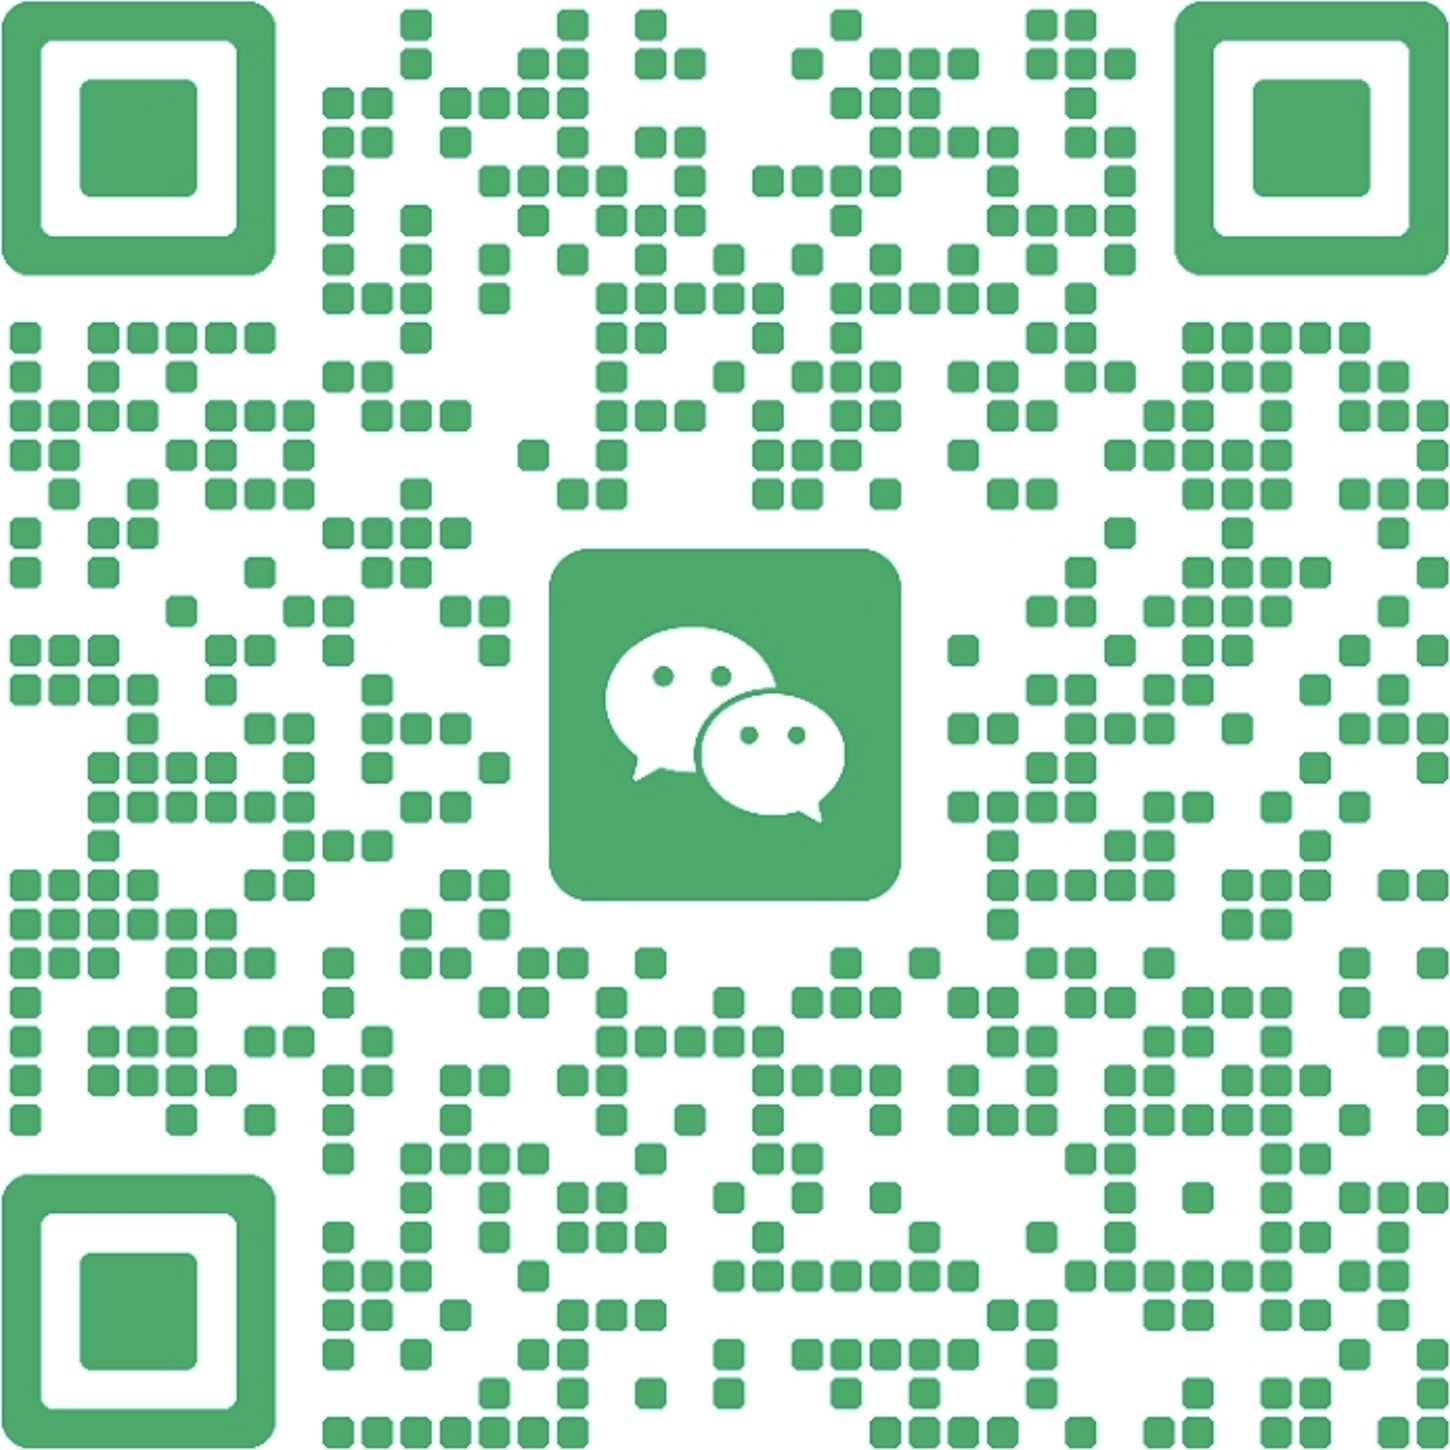
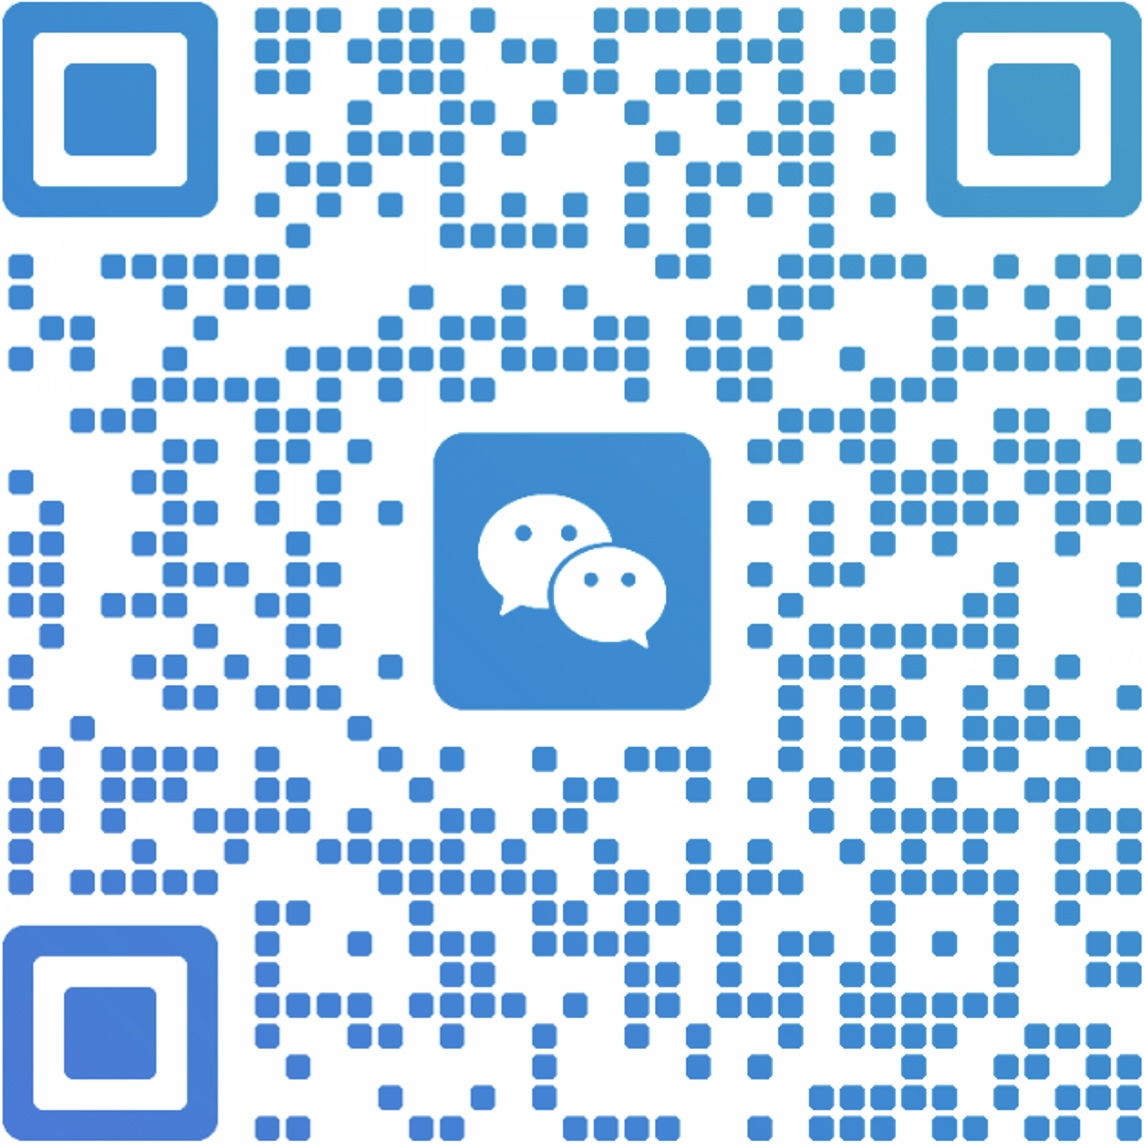
chore: update Jul-Dec 2026 officer roster
Refresh current officer details across generated agendas, award
certificates, meeting planning defaults, and assistant knowledge.

- Replace the workbook roster and add the current IPP.
- Set Alice Song as the default president for new agendas.
- Add Simmy Li and Selina Zhang to name-resolution hints.
- Refresh the VPM QR assets for web and Excel output.
- Keep local Codex workspace configuration out of Git.

diff --git a/frontend/src/utils/workbook.ts b/frontend/src/utils/workbook.ts
@@ -1104,7 +1104,7 @@ const createTeam = (
             font: { color: { argb: 'FFFFFFFF' }, bold: true }, // White text
           },
         },
-        { text: 'Amy Fang', style: { alignment: { horizontal: 'center' } } },
+        { text: 'Alice Song', style: { alignment: { horizontal: 'center' } } },
         {
           text: 'DL-Dynamic leadership\nMS-Motivational Strategies\nPl-Persuasive Influence\nPM-Presentation Mastery\nVC-Visionary Communication\nEH-Engaging Humor\n\nDL-动态领导力\nMS-激励策略\nPl-有说服力的影响\nPM-精通演讲\nVC-愿景沟通\nEH-善用幽默',
           style: {
@@ -1162,7 +1162,7 @@ const createTeam = (
             },
           },
         },
-        { text: 'Helen Chen', style: { alignment: { horizontal: 'center' } } },
+        { text: 'Liz Huang', style: { alignment: { horizontal: 'center' } } },
         '',
         '',
         '',
@@ -1184,7 +1184,7 @@ const createTeam = (
           },
         },
         {
-          text: 'Joyce Feng',
+          text: 'Simmy Li',
           style: { alignment: { horizontal: 'center' } },
         },
         '',
@@ -1208,7 +1208,7 @@ const createTeam = (
           },
         },
         {
-          text: 'Jenny Li',
+          text: 'Jessica Peng',
           style: { alignment: { horizontal: 'center' } },
         },
         '',
@@ -1232,7 +1232,7 @@ const createTeam = (
           },
         },
         {
-          text: 'Rui Zheng',
+          text: 'Selina Zhang',
           style: { alignment: { horizontal: 'center' } },
         },
         '',
@@ -1255,7 +1255,7 @@ const createTeam = (
             },
           },
         },
-        { text: 'Frank Zeng', style: { alignment: { horizontal: 'center' } } },
+        { text: 'Victory Liu', style: { alignment: { horizontal: 'center' } } },
         '',
         '',
         '',
@@ -1277,7 +1277,7 @@ const createTeam = (
           },
         },
         {
-          text: 'Shelly Qu',
+          text: 'Catherine Yang',
           style: { alignment: { horizontal: 'center' } },
         },
         '',
@@ -1301,7 +1301,7 @@ const createTeam = (
           },
         },
         {
-          text: 'Rui Zheng',
+          text: 'Amy Fang',
           style: { alignment: { horizontal: 'center' } },
         },
         '',

diff --git a/frontend/src/app/(auth)/awards/AwardPreview.tsx b/frontend/src/app/(auth)/awards/AwardPreview.tsx
@@ -108,7 +108,7 @@ export const AwardPreview = ({ award }: { award: AwardResult }) => {
 
           // add president signature
           ctx.font = 'lighter 200px serif';
-          ctx.fillText('Amy Fang', 4925, 4050 + yOffset);
+          ctx.fillText('Alice Song', 4925, 4050 + yOffset);
 
           // Add member name
           ctx.font = '480px Brush Script MT';

diff --git a/backend/app/agents/meeting/tools.py b/backend/app/agents/meeting/tools.py
@@ -721,7 +721,7 @@ async def apply_create_from_text(ctx, raw_text: str) -> dict:
 
 # Soarhigh Regular meeting standard structure — 22 segments, 2 prepared
 # speeches, 19:15 warmup → 21:15 closing. President defaults follow the
-# planner prompt convention (Amy Fang for Opening Remarks / Awards /
+# planner prompt convention (Alice Song for Opening Remarks / Awards /
 # Closing Remarks); user re-assigns via subsequent chat edits.
 _REGULAR_2PS_SEGMENTS: tuple[tuple[str, str, int, str], ...] = (
     # (type, start_time, duration_min, role_taker)
@@ -751,7 +751,7 @@ _REGULAR_2PS_SEGMENTS: tuple[tuple[str, str, int, str], ...] = (
     ("Voting Section (TOM)", "21:02", 2, ""),
     ("Moment of Truth", "21:04", 7, ""),
     ("Awards (President)", "21:11", 3, ""),
-    ("Closing Remarks (President)", "21:14", 1, "Amy Fang"),
+    ("Closing Remarks (President)", "21:14", 1, "Alice Song"),
 )
 
 
@@ -771,7 +771,7 @@ def _build_template_regular_2ps(members_directory: list[dict]) -> Agenda:
     decide rather than picking one for them).
 
     `members_directory` is the live members list eager-fetched at turn
-    boundary by the route. Static defaults like "Amy Fang" (the current
+    boundary by the route. Static defaults like "Alice Song" (the current
     president) are resolved through `_resolve_role_taker` so they carry a
     real DB `member_id` — without this, the chat addendum would render
     those default-presider rows as `(guest)` until the frontend re-resolved

diff --git a/backend/app/utils/prompts.py b/backend/app/utils/prompts.py
@@ -518,7 +518,7 @@ be expressed ONLY by pushing the NEXT real segment's start_time later. NEVER out
 "buffer" / "Buffer" / "间隔" / "gap" — buffers are not segments, they are time gaps between segments.
 3. Above segments are ordered by time, you can add or remove some segments according to how many people registered but \
 DO NOT change their orders.
-4. Role taker for Opening Remarks, Awards, and Closing Remarks defaults to the current club president Amy Fang. If \
+4. Role taker for Opening Remarks, Awards, and Closing Remarks defaults to the current club president Alice Song. If \
 the registration text explicitly names someone for the role, use that name instead of the default. Note: "Opening \
 Remarks" is sometimes labelled "Club Intro" in the registration text — treat them as the same segment.
 5. Role taker for Voting Section is always the TOM (Toastmaster of Meeting Introduction).

diff --git a/backend/app/utils/tests/test_prompts.py b/backend/app/utils/tests/test_prompts.py
@@ -6,10 +6,13 @@ from app.utils.prompts import (
 )
 
 
-def test_developer_prompt_lists_all_19_club_members():
+def test_developer_prompt_lists_club_members():
     prompt = plan_meeting_from_text_developer_prompt
     assert "Victory Liu" in prompt
     assert "Albert Ding" in prompt
+    assert "Simmy Li" in prompt
+    assert "Selina Zhang" in prompt
+    assert "Catherine Yang" in prompt
 
 
 def test_user_prompt_forbids_buffer_pseudo_segments():
@@ -47,9 +50,10 @@ def test_developer_prompt_describes_warmup_segment():
     assert '"type": "Guests Registration"' not in prompt
 
 
-def test_user_prompt_default_president_is_amy_fang():
+def test_user_prompt_default_president_is_alice_song():
     prompt = plan_meeting_from_text_user_prompt
-    assert "Amy Fang" in prompt
+    assert "Alice Song" in prompt
+    assert "Amy Fang" not in prompt
     assert "Libra Lee" not in prompt
 
 

diff --git a/backend/app/agents/meeting/tests/test_tools.py b/backend/app/agents/meeting/tests/test_tools.py
@@ -612,10 +612,10 @@ async def test_apply_create_from_template_regular_2ps_replaces_agenda():
     assert deps.agenda.segments[0].role_taker.name == "All"
     # Second segment: SAA at 19:30 (back-to-back from warmup end).
     assert deps.agenda.segments[1].start_time == "19:30"
-    # Last segment: Closing Remarks at 21:14, default president Amy Fang.
+    # Last segment: Closing Remarks at 21:14, default president Alice Song.
     last = deps.agenda.segments[-1]
     assert "Closing Remarks" in last.type
-    assert last.role_taker.name == "Amy Fang"
+    assert last.role_taker.name == "Alice Song"
     # Meeting type is set; meta.start_time matches the first segment (19:15)
     # so a later set_duration / add_segment doesn't re-anchor the warmup
     # forward by 15 min via recompute_start_times. end_time is left blank

diff --git a/backend/app/agents/meeting/agent.py b/backend/app/agents/meeting/agent.py
@@ -524,7 +524,7 @@ async def create_from_template(ctx: RunContext[AgendaDeps], template: str) -> di
 
     Regular/Workshop templates populate structure + a few default role takers
     (warmup="All", Opening / Awards / Closing default to current president
-    "Amy Fang"). Custom is intentionally bare — no warmup, no defaults. The
+    "Alice Song"). Custom is intentionally bare — no warmup, no defaults. The
     user fills theme / manager / date / location and remaining roles via
     subsequent chat edits in either case."""
     return await _tools.apply_create_from_template(ctx, template=template)

diff --git a/backend/app/services/member_directory.py b/backend/app/services/member_directory.py
@@ -52,6 +52,8 @@ CLUB_MEMBERS: list[str] = [
     "Victory Liu",
     "Albert Ding",
     "Libra Lee",
+    "Simmy Li",
+    "Selina Zhang",
 ]
 
 

diff --git a/backend/app/agents/general/skills/soarhigh-bylaws/SKILL.md b/backend/app/agents/general/skills/soarhigh-bylaws/SKILL.md
@@ -110,15 +110,14 @@ For the election-day meeting format, the nomination process, candidate speeches,
 
 The current SoarHigh officers:
 
-- **President** — Amy Fang
-- **VP Education (VPE)** — Helen Chen
-- **VP Membership (VPM)** — Joyce Feng
-- **VP Public Relations (VPPR)** — Jenny Li
-- **Secretary** — Rui Zheng
-- **Treasurer** — Frank Zeng
-- **Sergeant At Arms (SAA)** — Shelly Qu
-
-(The Immediate Past President role is not separately listed in the current term roster.)
+- **President** — Alice Song
+- **VP Education (VPE)** — Liz Huang
+- **VP Membership (VPM)** — Simmy Li
+- **VP Public Relations (VPPR)** — Jessica Peng
+- **Secretary** — Selina Zhang
+- **Treasurer** — Victory Liu
+- **Sergeant At Arms (SAA)** — Catherine Yang
+- **Immediate Past President (IPP)** — Amy Fang
 
 When asked "who is the current president / VPE / etc." and the answer is in this list, give the name. When asked about a role NOT in this list, decline to guess and direct the user to confirm with the club.
 
